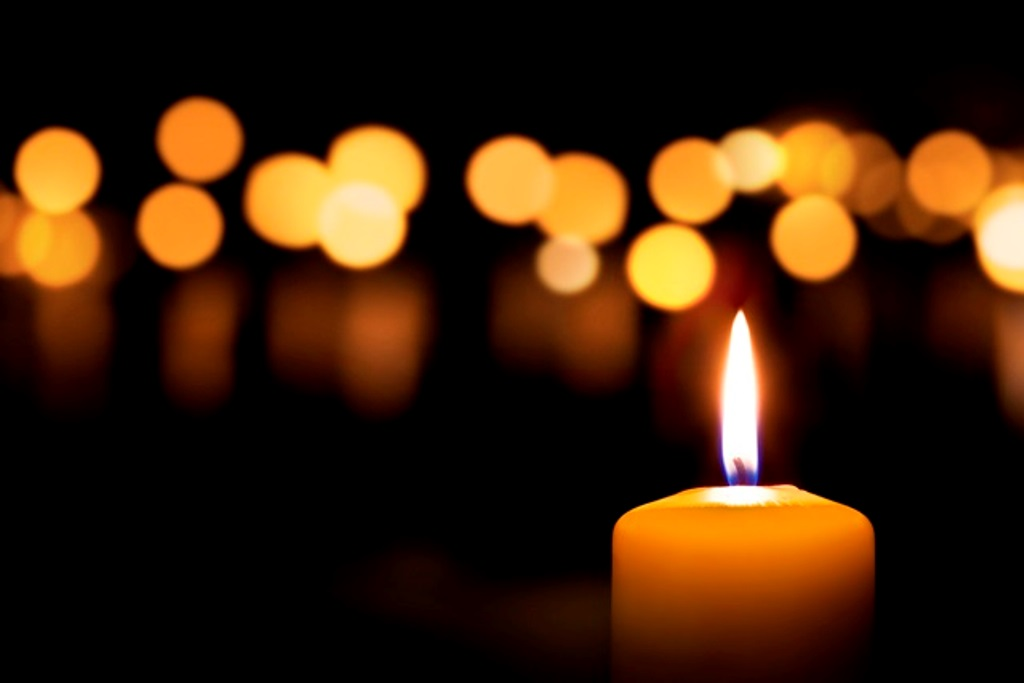
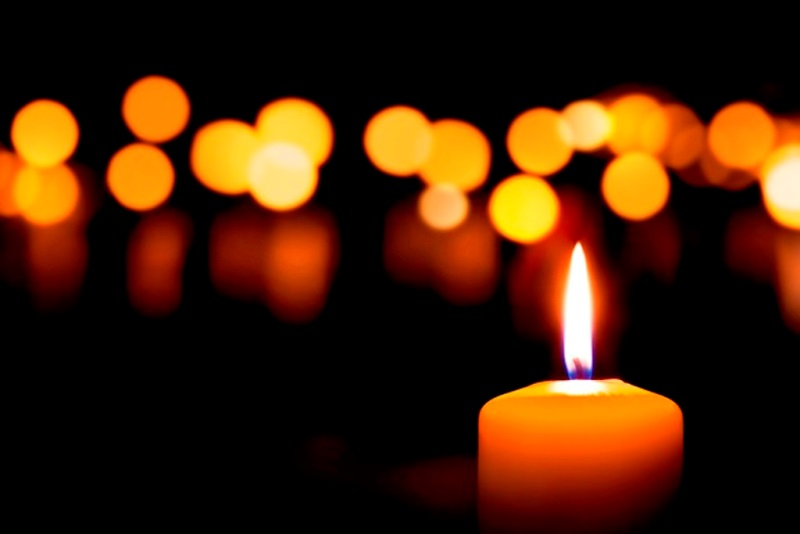
added cover background

diff --git a/assets/css/reset.css b/assets/css/reset.css
@@ -1,0 +1,48 @@
+/* http://meyerweb.com/eric/tools/css/reset/ 
+   v2.0 | 20110126
+   License: none (public domain)
+*/
+
+html, body, div, span, applet, object, iframe,
+h1, h2, h3, h4, h5, h6, p, blockquote, pre,
+a, abbr, acronym, address, big, cite, code,
+del, dfn, em, img, ins, kbd, q, s, samp,
+small, strike, strong, sub, sup, tt, var,
+b, u, i, center,
+dl, dt, dd, ol, ul, li,
+fieldset, form, label, legend,
+table, caption, tbody, tfoot, thead, tr, th, td,
+article, aside, canvas, details, embed, 
+figure, figcaption, footer, header, hgroup, 
+menu, nav, output, ruby, section, summary,
+time, mark, audio, video {
+	margin: 0;
+	padding: 0;
+	border: 0;
+	font-size: 100%;
+	font: inherit;
+	vertical-align: baseline;
+}
+/* HTML5 display-role reset for older browsers */
+article, aside, details, figcaption, figure, 
+footer, header, hgroup, menu, nav, section {
+	display: block;
+}
+body {
+	line-height: 1;
+}
+ol, ul {
+	list-style: none;
+}
+blockquote, q {
+	quotes: none;
+}
+blockquote:before, blockquote:after,
+q:before, q:after {
+	content: '';
+	content: none;
+}
+table {
+	border-collapse: collapse;
+	border-spacing: 0;
+}

diff --git a/assets/css/style.css b/assets/css/style.css
@@ -6,6 +6,7 @@
 
 body {
 	background: url("../images/candles.jpg");
+	background-size: cover;
 	font-family: Arial, Helvetica, sans-serif;
   	font-size: 26px;
   	line-height: 34px;
